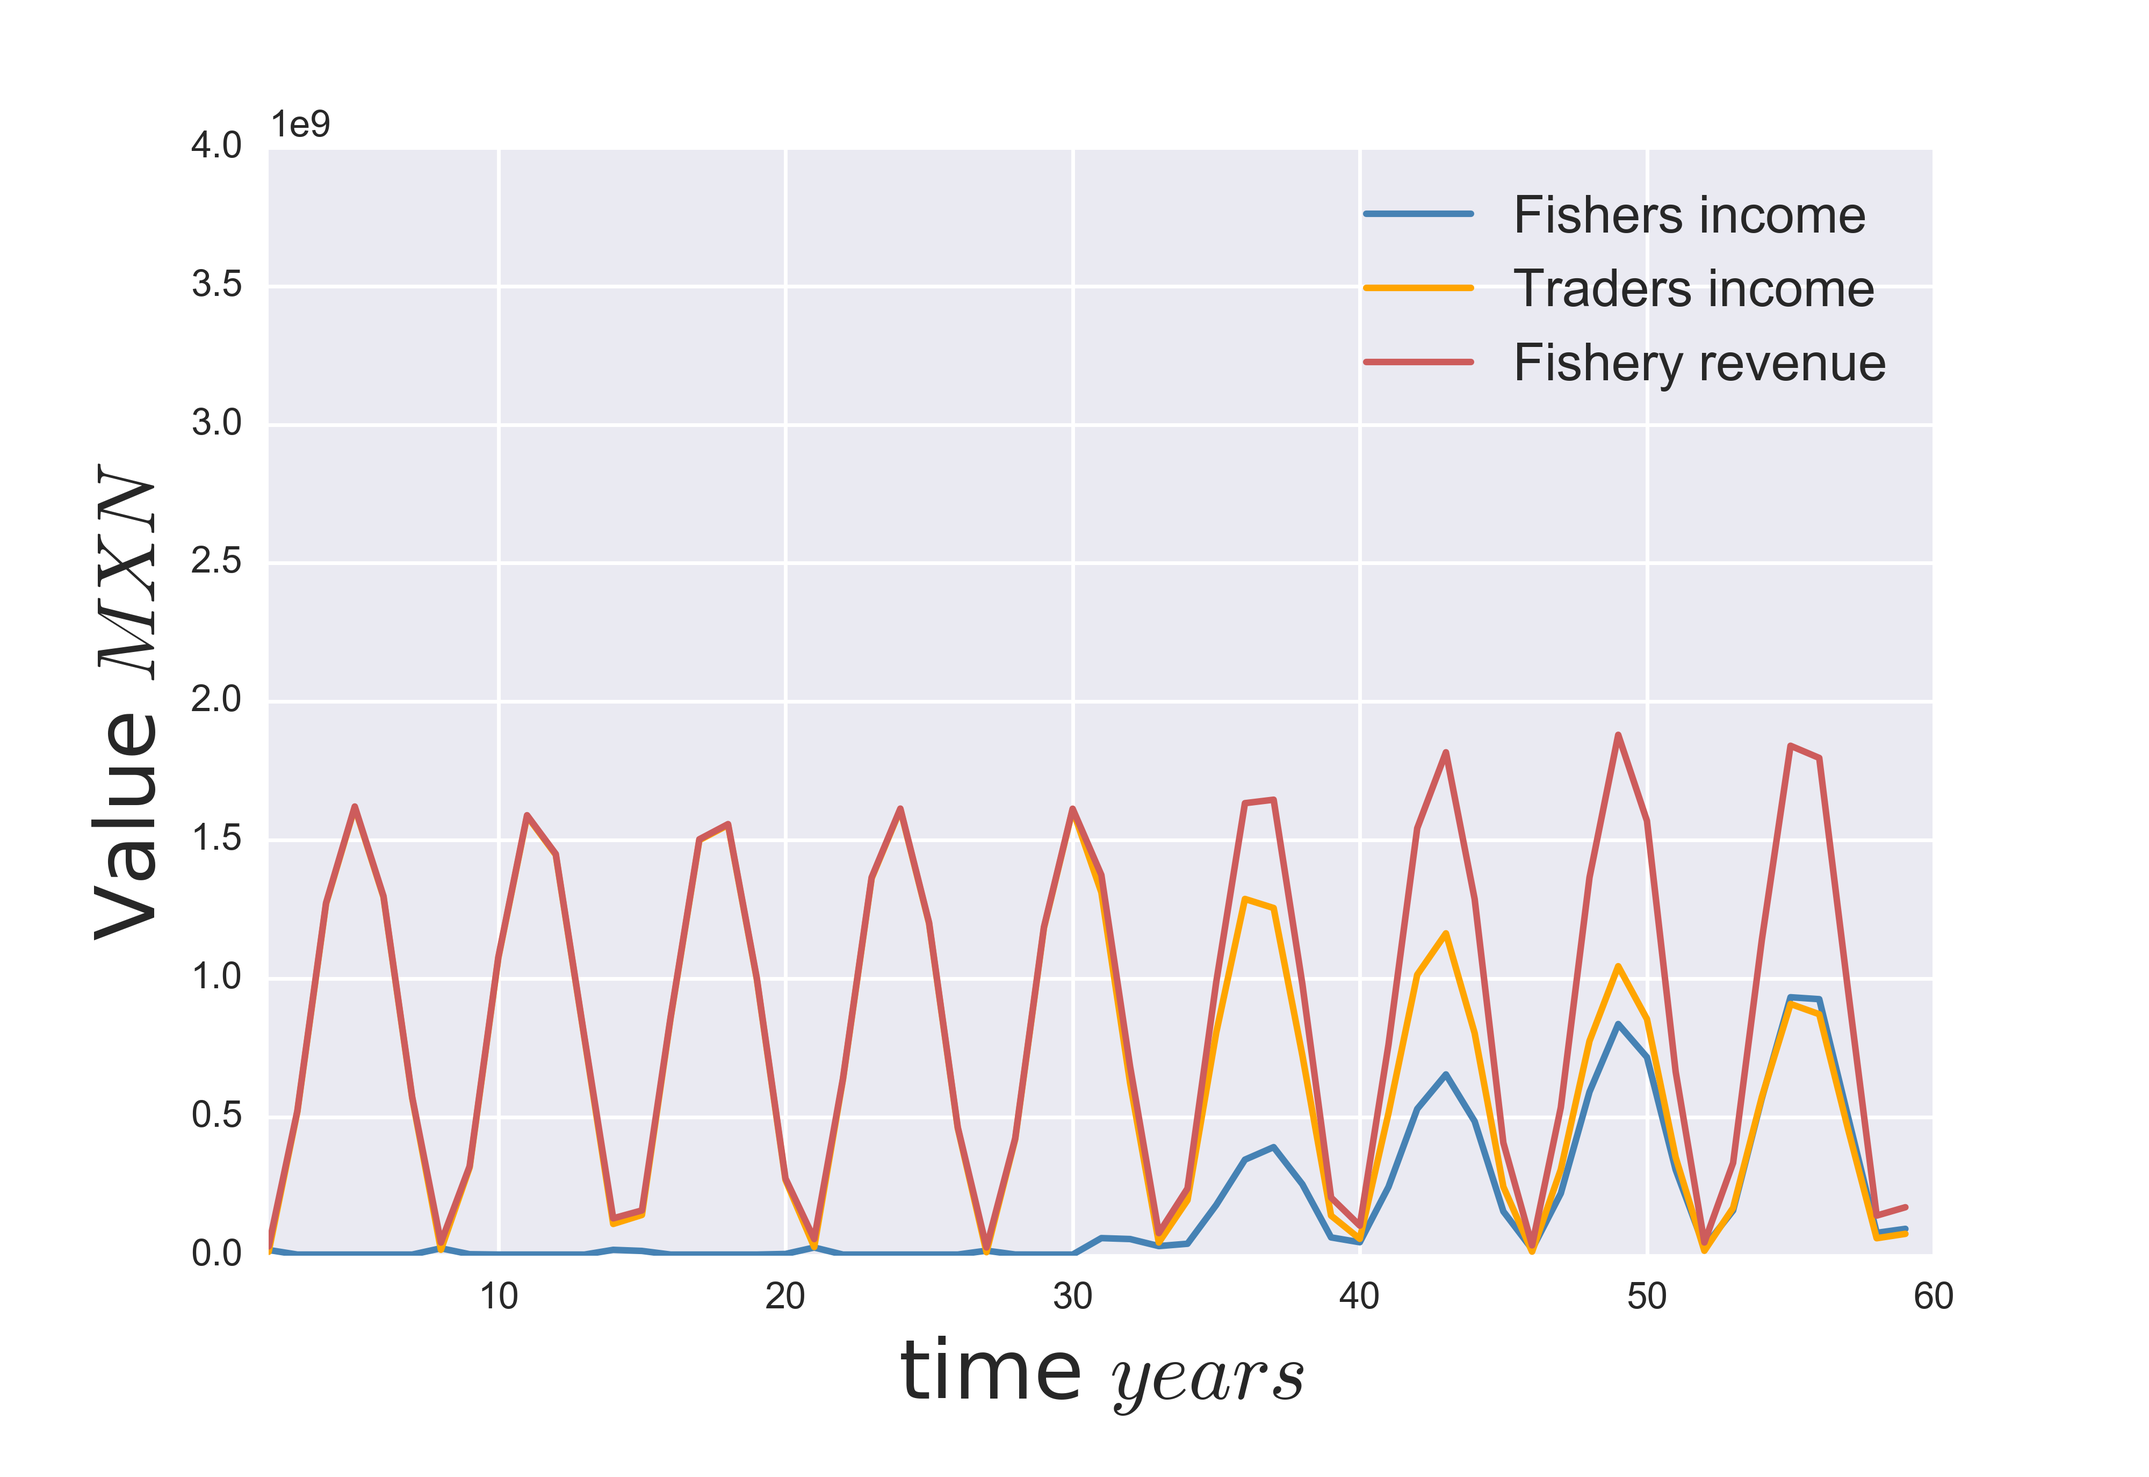
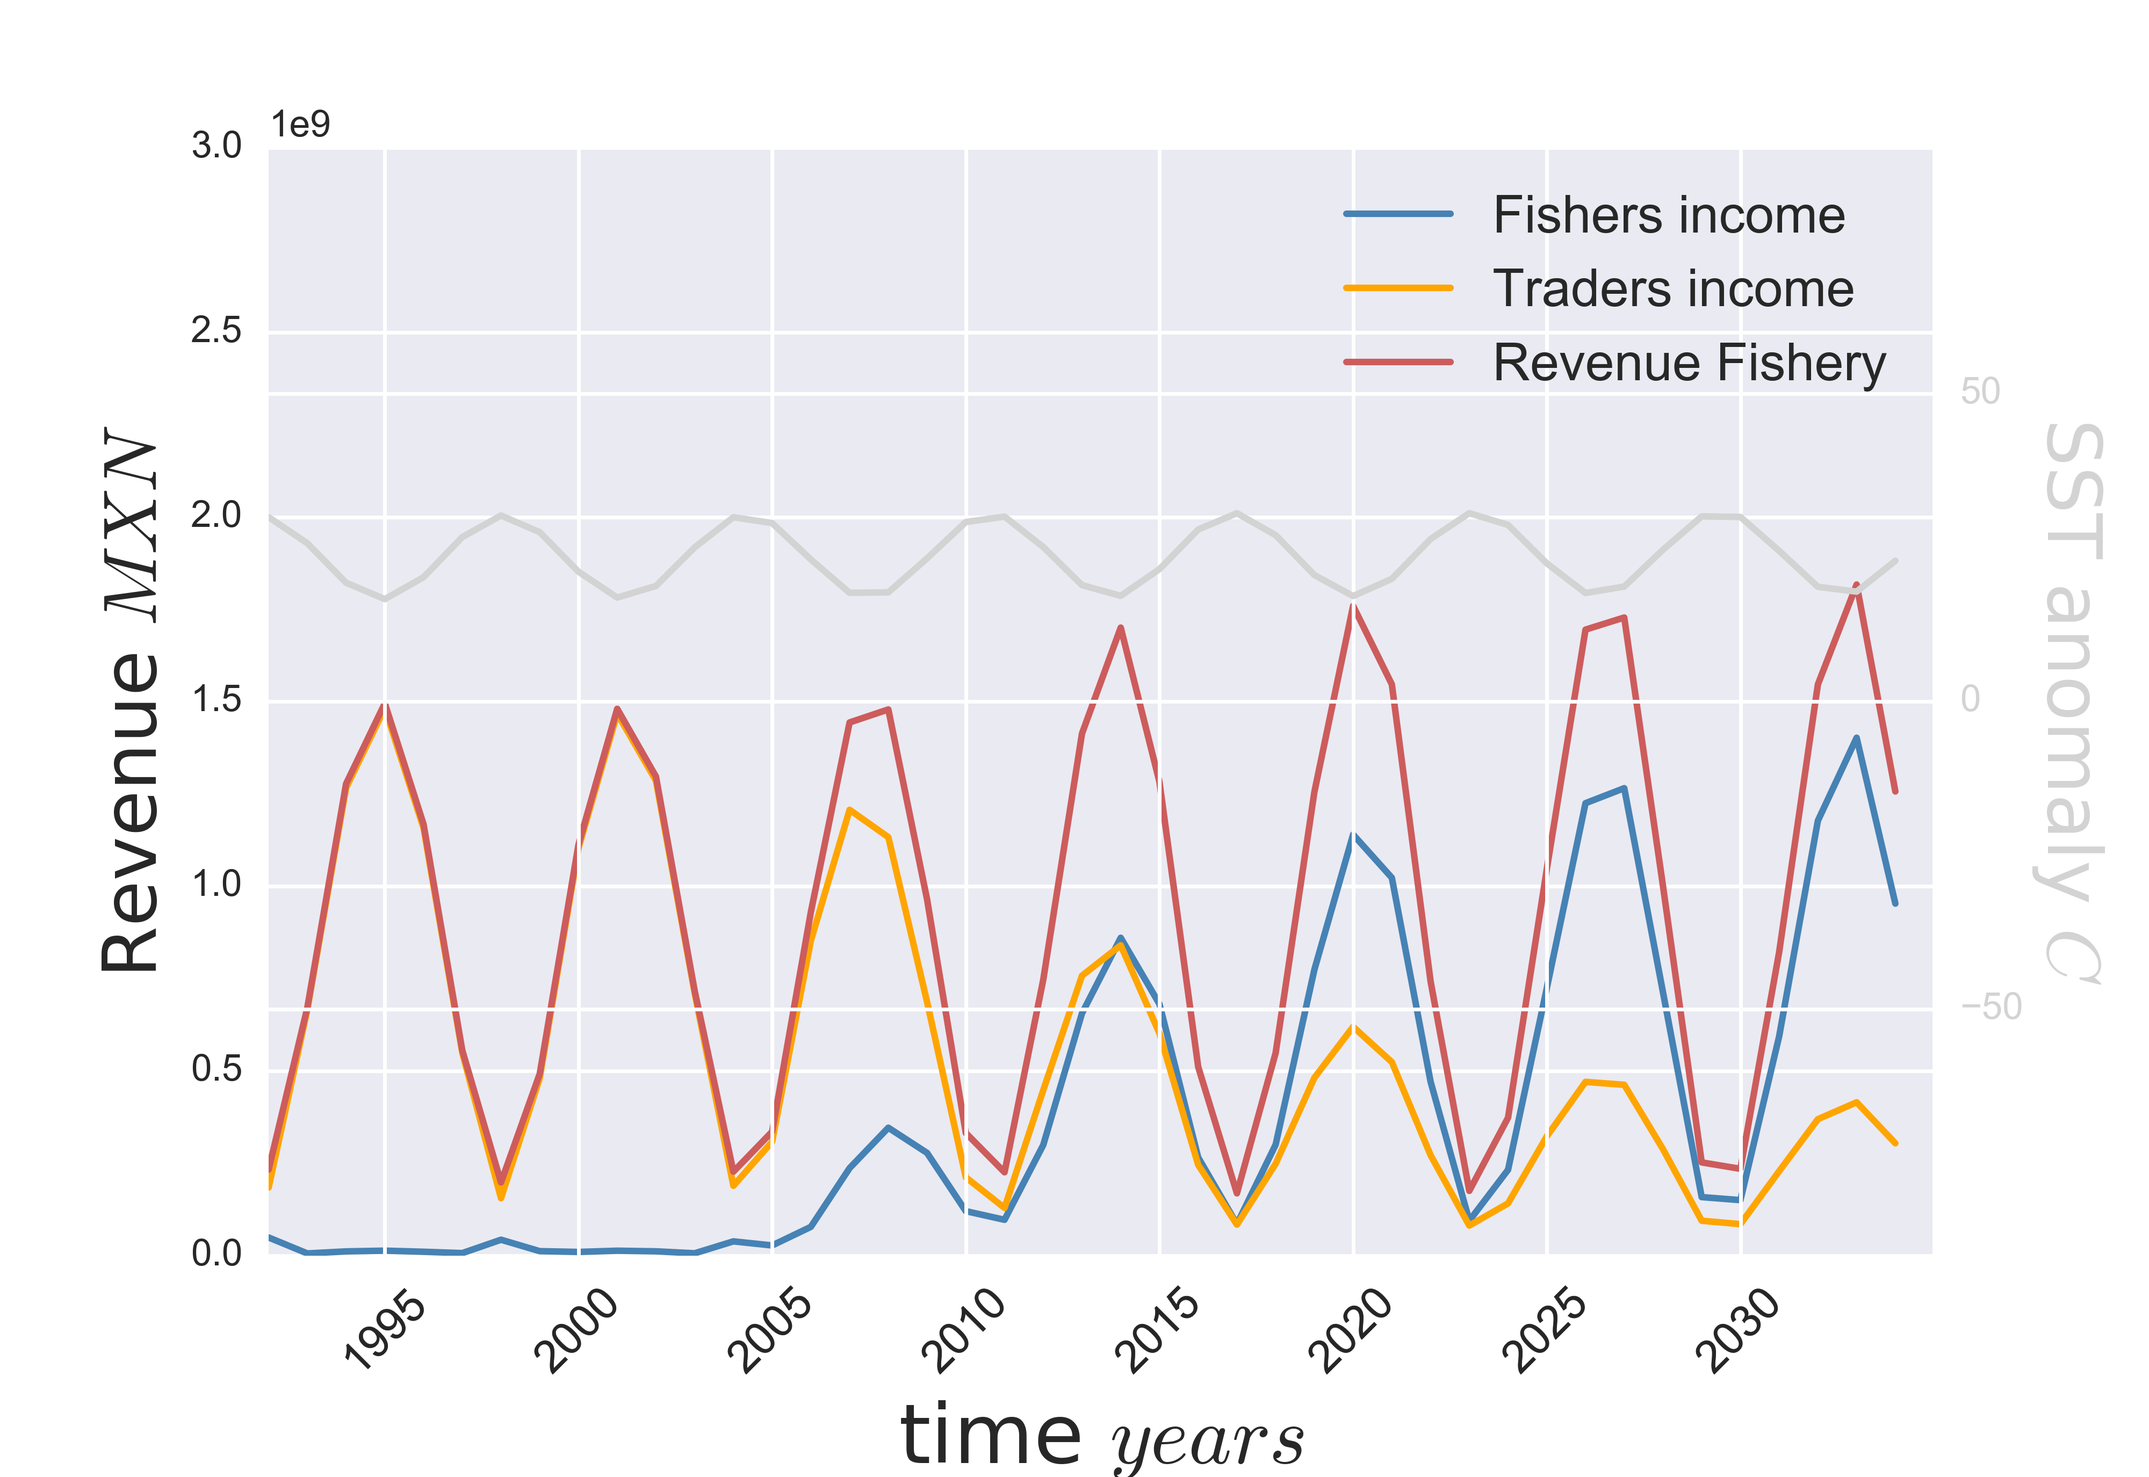
Figures interventions

diff --git a/CODE/R1ts_test_interventions.py b/CODE/R1ts_test_interventions.py
@@ -31,16 +31,16 @@ l1 = -0.0059 # q, slope
 l2 = 0.1882 # q, intersect
 qc = 0.1 # catchability constant
 a1 = 1/np.exp(30.82399-(b0+b1*2015)) # proportion of migrating squid, where 3.4E7 max(e^(tau-b1))
+d = 1 # slope of trader cooperation
+f = 0 # intercept of trader cooperation
 K = 1208770 # carrying capacity
 g = 1.4 # population growth rate
 gamma = 49200 # maximum demand
 beta = 0.0736 # slope of demand-price function
 w_m = 13355164 # min wage per hour all fleet
 c_p = 1776.25 # cost of processing
-c_t = 156060433 # cost of fishing
+c_t = 107291548 # cost of fishing
 
-B_h = 7.203 # hours per fisher
-B_f = 2 # fisher per panga
 h1 = 2E-10 # scale E
 h2 = 0.6596 # scale E
 
@@ -55,7 +55,6 @@ Escal = np.zeros(tmax) # scale effort
 E = np.zeros(tmax) # fishing effort
 C = np.zeros(tmax) # squid catch
 p_e = np.zeros(tmax) # export price
-p_escal = np.zeros(tmax) # export price
 p_min = np.zeros(tmax) # minimum wage
 p_f = np.zeros(tmax) # price for fishers
 RF = np.zeros(tmax) # revenue of fishers
@@ -77,8 +76,6 @@ p_f[0] = 8997 # mean p_f datamares, rounded
 
 ### intervention parameters and variables ######################################
 ### parameters
-d = 5 # slope of trader cooperation
-f = 1 # intercept of trader cooperation
 i_e = 0.1 # increment of decrease in traders cooperation per unit investment
 timeInt = 15 # year to start intervention
 
@@ -104,7 +101,7 @@ ys = df1['y_S'] #
 # tmax = len(y)
 
 ### Define Model ###############################################################
-def model(b0, b1, b2, b3, n1, n2, l1, l2, qc, a1, d, f, g, K, c_t, B_h, B_f, h1, h2, gamma, beta, c_p, w_m, flag):
+def model(b0, b1, b2, b3, l1, l2, qc, a1, d, f, g, K, c_t, h1, h2, gamma, beta, c_p, w_m, flag):
     for t in np.arange(1,tmax):
         # sst trend
         tau[t]= b0 +b1 *(t+1990) +b2 *np.cos(t+1990) + b3 *np.sin(t+1990) # changed from 2015 to 1990 to mimic the beginning of the intervention
@@ -135,15 +132,7 @@ def model(b0, b1, b2, b3, n1, n2, l1, l2, qc, a1, d, f, g, K, c_t, B_h, B_f, h1,
             y_S[t] = 0.01
             print "yS low"
 
-        ### trader cooperation
-        ## inverse, linear
-        # R_tt[t] = (1-y_S[t])
-        ## logistic
-        # R_tt[t] = 1/(1+np.exp(-d*(y_S[t]-0.5)))
-        ## exponential
-        R_tt[t]= f+ np.exp(-d* y_S[t])
-
-        ## integrate trader cooperation intervention
+        ## trader cooperation intervention
         if t <= timeInt:
             R_tt[t] = f+ np.exp(-d* y_S[t])
         else:
@@ -184,14 +173,14 @@ def model(b0, b1, b2, b3, n1, n2, l1, l2, qc, a1, d, f, g, K, c_t, B_h, B_f, h1,
         if C[t] <= 0:
             C[t]= 1
 
-        ## integrate demand intervention
+        ## demand intervention
         if t <= timeInt:
             p_e[t] = gamma* (C[t])**(-beta)
         else:
             if demand == 0:
                 p_e[t] = gamma* (C[t])**(-beta)
             if demand == 1:
-                p_e[t] = (gamma *(1+ i_e *(t -timeInt))) *(C[t])**(-beta)
+                p_e[t] = (gamma *(1+ i_e*0.4 *(t -timeInt))) *(C[t])**(-beta)
 
         # export price
         # p_e[t] = gamma* (C[t])**(-beta)
@@ -228,7 +217,7 @@ def model(b0, b1, b2, b3, n1, n2, l1, l2, qc, a1, d, f, g, K, c_t, B_h, B_f, h1,
         G[t] = RF[t]/RT[t]
 
         print q[t], y_S[t], S[t], E[t], C[t], p_e[t], p_f[t], G[t]
-    return tau, ML, q, y_S, R_tt, S, E, C, p_e, p_f, G
+    return tau, q, y_S, R_tt, S, E, C, p_e, p_f, G
 
 ################################################################################
 ###########################  RUN MODEL FILE  ###################################
@@ -278,14 +267,14 @@ for j in range(0,sim.shape[0]): # draw randomly a float in the range of values f
     OUT9 = np.zeros(tau.shape[0])
 
     for i in np.arange(0,1):
-            tau, ML, q, y_S, R_tt, S, E, C, p_e, p_f, G = model(b0, b1, b2, b3, n1, n2, l1, l2, qc, a1, d, f, g, K, c_t, B_h, B_f, h1, h2, gamma, beta, c_p, w_m, flag)
+            tau, q, y_S, R_tt, S, E, C, p_e, p_f, G = model(b0, b1, b2, b3, l1, l2, qc, a1, d, f, g, K, c_t, h1, h2, gamma, beta, c_p, w_m, flag)
             OUT1= p_f
             OUT2= p_e
             OUT3= RF
             OUT4= RT
-            OUT5= R_tt
-            OUT6= S
-            OUT7= E
+            OUT5= RA
+            OUT6= R_tt
+            OUT7= tau
             OUT8= C
             OUT9= G
             # print "END"
@@ -334,18 +323,21 @@ if intervention == 0: # intervention competition
     np.save("./Dropbox/PhD/Resources/Squid/Squid/CODE/Squid/DATA/R4_Rtt_pe.npy", OUT2)
     np.save("./Dropbox/PhD/Resources/Squid/Squid/CODE/Squid/DATA/R4_Rtt_RF.npy", OUT3)
     np.save("./Dropbox/PhD/Resources/Squid/Squid/CODE/Squid/DATA/R4_Rtt_RT.npy", OUT4)
+    np.save("./Dropbox/PhD/Resources/Squid/Squid/CODE/Squid/DATA/R4_Rtt_RA.npy", OUT5)
 if intervention == 1: # intervention demand BEM
     print "intervention demand BEM"
     np.save("./Dropbox/PhD/Resources/Squid/Squid/CODE/Squid/DATA/R4_gamma_BEM_pf.npy", OUT1)
     np.save("./Dropbox/PhD/Resources/Squid/Squid/CODE/Squid/DATA/R4_gamma_BEM_pe.npy", OUT2)
     np.save("./Dropbox/PhD/Resources/Squid/Squid/CODE/Squid/DATA/R4_gamma_BEM_RF.npy", OUT3)
     np.save("./Dropbox/PhD/Resources/Squid/Squid/CODE/Squid/DATA/R4_gamma_BEM_RT.npy", OUT4)
+    np.save("./Dropbox/PhD/Resources/Squid/Squid/CODE/Squid/DATA/R4_gamma_BEM_RA.npy", OUT5)
 if intervention == 2: # intervention demand MLM
     print "intervention demand MLM"
     np.save("./Dropbox/PhD/Resources/Squid/Squid/CODE/Squid/DATA/R4_gamma_MLM_pf.npy", OUT1)
     np.save("./Dropbox/PhD/Resources/Squid/Squid/CODE/Squid/DATA/R4_gamma_MLM_pe.npy", OUT2)
     np.save("./Dropbox/PhD/Resources/Squid/Squid/CODE/Squid/DATA/R4_gamma_MLM_RF.npy", OUT3)
     np.save("./Dropbox/PhD/Resources/Squid/Squid/CODE/Squid/DATA/R4_gamma_MLM_RT.npy", OUT4)
+    np.save("./Dropbox/PhD/Resources/Squid/Squid/CODE/Squid/DATA/R4_gamma_MLM_RA.npy", OUT5)
 
 ################################################################################
 ###########################  PLOT FILE  ########################################
@@ -357,74 +349,143 @@ cPE = np.load("./Dropbox/PhD/Resources/Squid/Squid/CODE/Squid/DATA/R4_Rtt_pe.npy
 cPF = np.load("./Dropbox/PhD/Resources/Squid/Squid/CODE/Squid/DATA/R4_Rtt_pf.npy")
 cRF = np.load("./Dropbox/PhD/Resources/Squid/Squid/CODE/Squid/DATA/R4_Rtt_RF.npy")
 cRT = np.load("./Dropbox/PhD/Resources/Squid/Squid/CODE/Squid/DATA/R4_Rtt_RT.npy")
+cRA = np.load("./Dropbox/PhD/Resources/Squid/Squid/CODE/Squid/DATA/R4_Rtt_RA.npy")
 # intervention demand
 dBPE = np.load("./Dropbox/PhD/Resources/Squid/Squid/CODE/Squid/DATA/R4_gamma_BEM_pe.npy")
 dBPF = np.load("./Dropbox/PhD/Resources/Squid/Squid/CODE/Squid/DATA/R4_gamma_BEM_pf.npy")
 dBRF = np.load("./Dropbox/PhD/Resources/Squid/Squid/CODE/Squid/DATA/R4_gamma_BEM_RF.npy")
 dBRT = np.load("./Dropbox/PhD/Resources/Squid/Squid/CODE/Squid/DATA/R4_gamma_BEM_RT.npy")
+dBRA = np.load("./Dropbox/PhD/Resources/Squid/Squid/CODE/Squid/DATA/R4_gamma_BEM_RA.npy")
 # intervention competition
 dMPE = np.load("./Dropbox/PhD/Resources/Squid/Squid/CODE/Squid/DATA/R4_gamma_MLM_pe.npy")
 dMPF = np.load("./Dropbox/PhD/Resources/Squid/Squid/CODE/Squid/DATA/R4_gamma_MLM_pf.npy")
 dMRF = np.load("./Dropbox/PhD/Resources/Squid/Squid/CODE/Squid/DATA/R4_gamma_MLM_RF.npy")
 dMRT = np.load("./Dropbox/PhD/Resources/Squid/Squid/CODE/Squid/DATA/R4_gamma_MLM_RT.npy")
+dMRA = np.load("./Dropbox/PhD/Resources/Squid/Squid/CODE/Squid/DATA/R4_gamma_MLM_RA.npy")
 
 ### font ######################################################################
 hfont = {'fontname':'Helvetica'}
 
+yr = np.arange(1990,2035,1)
+
 # begin plotting competition intervention
 fig = plt.figure()
-a, = plt.plot((cPF), label = "Price for fishers", color = 'steelblue')
-b, = plt.plot((cPE), label = "Market price", color = 'orange')
-c, = plt.plot((cRF/1E4), label = "Fisher income in k", color = 'sage')
-d, = plt.plot((cRT/1E4), label = "Trader income in k", color = 'indianred')
+ax1 = fig.add_subplot(111)
+a, = ax1.plot(dMRF, label = "Fishers income", color = 'steelblue')
+b, = ax1.plot(dMRT, label = "Traders income", color = 'orange')
+c, = ax1.plot(dMRA, label = "Revenue Fishery", color = 'indianred')
 # x-axis
-#plt.xticks(np.arange(len(yr)), yr, rotation=45)
+# add the second axes using subplot with ML
+ax2 = fig.add_subplot(111, sharex=ax1, frameon=False)
+d, = ax2.plot(OUT7, color="lightgrey")
+# x-axis
 plt.xlim(2,tmax)
 plt.xlabel("time $years$",fontsize=22, **hfont)
-plt.gcf().subplots_adjust(bottom=0.15)
+ax1.set_xticklabels(np.arange(1990,2035,5), rotation=45, fontsize= 12)
+ax2.set_xticklabels(np.arange(1990,2035,5), rotation=45, fontsize= 12)
 # y-axis
-# plt.ylim(0,4E9)
-plt.ylabel("Ratio of income and price $MXN$" ,fontsize=22, **hfont)
-plt.legend(handles=[a,b,c,d], loc='best', fontsize=14)
+ax1.set_ylabel("Revenue $MXN$", rotation=90, labelpad=5, fontsize=20, **hfont)
+ax1.set_ylim(0,3E9)
+ax2.set_ylabel("SST anomaly $C$", rotation=270, color='lightgrey', labelpad=22, fontsize=20, **hfont)
+ax2.yaxis.tick_right()
+ax2.yaxis.set_label_position("right")
+ax2.tick_params(axis='y', colors='lightgrey')
+ax2.set_ylim(-90,90)
+# adjusting labels and plot size
+plt.gcf().subplots_adjust(bottom=0.15)
+plt.legend(handles=[a,b,c,d], loc=2, fontsize=14)
 # load and show
 # fig.savefig('./Dropbox/PhD/Resources/Squid/Squid/CODE/Squid/FIGS/R4_support1.png',dpi=500)
 plt.show()
 
 
-# begin plotting demand intervention
+# begin plotting competition intervention
 fig = plt.figure()
-a, = plt.plot((dBPF/dBPE), label = "Price ratio BEM", color = 'steelblue')
-b, = plt.plot((dMPF/dMPE), label = "Price ratio MLM", color = 'orange')
-c, = plt.plot((dBRF/dBRT), label = "Income ratio BEM", color = 'indianred')
-d, = plt.plot((dMRF/dMRT), label = "Income ratio MLM", color = 'sage')
+ax1 = fig.add_subplot(111)
+a, = ax1.plot(cRF, label = "Fishers income", color = 'steelblue')
+b, = ax1.plot(cRT, label = "Traders income", color = 'orange')
+c, = ax1.plot(cRA, label = "Revenue Fishery", color = 'indianred')
 # x-axis
-#plt.xticks(np.arange(len(yr)), yr, rotation=45)
+# add the second axes using subplot with ML
+ax2 = fig.add_subplot(111, sharex=ax1, frameon=False)
+d, = ax2.plot(OUT7, color="lightgrey")
+# x-axis
 plt.xlim(2,tmax)
 plt.xlabel("time $years$",fontsize=22, **hfont)
-plt.gcf().subplots_adjust(bottom=0.15)
+ax1.set_xticklabels(np.arange(1990,2035,5), rotation=45, fontsize= 12)
+ax2.set_xticklabels(np.arange(1990,2035,5), rotation=45, fontsize= 12)
 # y-axis
-# plt.ylim(0,4E9)
-plt.ylabel("Ratio of income and price $MXN$" ,fontsize=22, **hfont)
+ax1.set_ylabel("Revenue $MXN$", rotation=90, labelpad=5, fontsize=20, **hfont)
+ax1.set_ylim(0,3E9)
+ax2.set_ylabel("SST anomaly $C$", rotation=270, color='lightgrey', labelpad=22, fontsize=20, **hfont)
+ax2.yaxis.tick_right()
+ax2.yaxis.set_label_position("right")
+ax2.tick_params(axis='y', colors='lightgrey')
+ax2.set_ylim(-90,90)
+# adjusting labels and plot size
+plt.gcf().subplots_adjust(bottom=0.15)
 plt.legend(handles=[a,b,c,d], loc='best', fontsize=14)
 # load and show
 # fig.savefig('./Dropbox/PhD/Resources/Squid/Squid/CODE/Squid/FIGS/R4_support2.png',dpi=500)
 plt.show()
 
-# begin plotting demand intervention
-fig = plt.figure()
-a, = plt.plot(dBPF, label = "Price for fishers BEM", color = 'steelblue')
-b, = plt.plot(dBPE, label = "Market price BEM", color = 'orange')
-c, = plt.plot(dMPF, label = "Price for fishers MLM", color = 'sage')
-d, = plt.plot(dMPE, label = "Market price MLM", color = 'indianred')
-# x-axis
-#plt.xticks(np.arange(len(yr)), yr, rotation=45)
-plt.xlim(2,tmax)
-plt.xlabel("time $years$",fontsize=22, **hfont)
-plt.gcf().subplots_adjust(bottom=0.15)
-# y-axis
-# plt.ylim(0,4E9)
-plt.ylabel("Ratio of income and price $MXN$" ,fontsize=22, **hfont)
-plt.legend(handles=[a,b,c,d], loc='best', fontsize=14)
-# load and show
-# fig.savefig('./Dropbox/PhD/Resources/Squid/Squid/CODE/Squid/FIGS/R4_support1.png',dpi=500)
-plt.show()
+
+
+
+# # begin plotting competition intervention
+# fig = plt.figure()
+# a, = plt.plot((cPF), label = "Price for fishers", color = 'steelblue')
+# b, = plt.plot((cPE), label = "Market price", color = 'orange')
+# c, = plt.plot((cRF/1E4), label = "Fisher income in k", color = 'sage')
+# d, = plt.plot((cRT/1E4), label = "Trader income in k", color = 'indianred')
+# # x-axis
+# #plt.xticks(np.arange(len(yr)), yr, rotation=45)
+# plt.xlim(2,tmax)
+# plt.xlabel("time $years$",fontsize=22, **hfont)
+# plt.gcf().subplots_adjust(bottom=0.15)
+# # y-axis
+# # plt.ylim(0,4E9)
+# plt.ylabel("Ratio of income and price $MXN$" ,fontsize=22, **hfont)
+# plt.legend(handles=[a,b,c,d], loc='best', fontsize=14)
+# # load and show
+# # fig.savefig('./Dropbox/PhD/Resources/Squid/Squid/CODE/Squid/FIGS/R4_support1.png',dpi=500)
+# plt.show()
+#
+#
+# # begin plotting demand intervention
+# fig = plt.figure()
+# a, = plt.plot((dBPF/dBPE), label = "Price ratio BEM", color = 'steelblue')
+# b, = plt.plot((dMPF/dMPE), label = "Price ratio MLM", color = 'orange')
+# c, = plt.plot((dBRF/dBRT), label = "Income ratio BEM", color = 'indianred')
+# d, = plt.plot((dMRF/dMRT), label = "Income ratio MLM", color = 'sage')
+# # x-axis
+# #plt.xticks(np.arange(len(yr)), yr, rotation=45)
+# plt.xlim(2,tmax)
+# plt.xlabel("time $years$",fontsize=22, **hfont)
+# plt.gcf().subplots_adjust(bottom=0.15)
+# # y-axis
+# # plt.ylim(0,4E9)
+# plt.ylabel("Ratio of income and price $MXN$" ,fontsize=22, **hfont)
+# plt.legend(handles=[a,b,c,d], loc='best', fontsize=14)
+# # load and show
+# # fig.savefig('./Dropbox/PhD/Resources/Squid/Squid/CODE/Squid/FIGS/R4_support2.png',dpi=500)
+# plt.show()
+#
+# # begin plotting demand intervention
+# fig = plt.figure()
+# a, = plt.plot(dBPF, label = "Price for fishers BEM", color = 'steelblue')
+# b, = plt.plot(dBPE, label = "Market price BEM", color = 'orange')
+# c, = plt.plot(dMPF, label = "Price for fishers MLM", color = 'sage')
+# d, = plt.plot(dMPE, label = "Market price MLM", color = 'indianred')
+# # x-axis
+# #plt.xticks(np.arange(len(yr)), yr, rotation=45)
+# plt.xlim(2,tmax)
+# plt.xlabel("time $years$",fontsize=22, **hfont)
+# plt.gcf().subplots_adjust(bottom=0.15)
+# # y-axis
+# # plt.ylim(0,4E9)
+# plt.ylabel("Ratio of income and price $MXN$" ,fontsize=22, **hfont)
+# plt.legend(handles=[a,b,c,d], loc='best', fontsize=14)
+# # load and show
+# # fig.savefig('./Dropbox/PhD/Resources/Squid/Squid/CODE/Squid/FIGS/R4_support1.png',dpi=500)
+# plt.show()

diff --git a/CODE/R1ts_old_new_ML.py b/CODE/R1ts_old_new_ML.py
@@ -306,12 +306,12 @@ ax1.set_xlabel("Year",fontsize=20, **hfont)
 ax2.set_xticklabels(np.arange(2001,2016,2), rotation=45, fontsize= 12)
 ax2.set_xlim(10,tmax-2)
 ax2.set_xlabel("Year",fontsize=20, **hfont)
-ax2.yaxis.tick_right()
-ax2.yaxis.set_label_position("right")
 # y-axis
 ax1.set_ylabel("Prices for fishers $MXN$", rotation=90, labelpad=5, fontsize=20, **hfont)
 ax2.set_ylabel("Mantle length $cm$", rotation=270, color='lightgrey', labelpad=22, fontsize=20, **hfont)
 plt.gcf().subplots_adjust(bottom=0.15,right=0.9)
+ax2.yaxis.tick_right()
+ax2.yaxis.set_label_position("right")
 # legend
 plt.legend([line1, line2, line3], ["Prediction", "Data", "Mantle length"], fontsize= 11)
 # save and show
